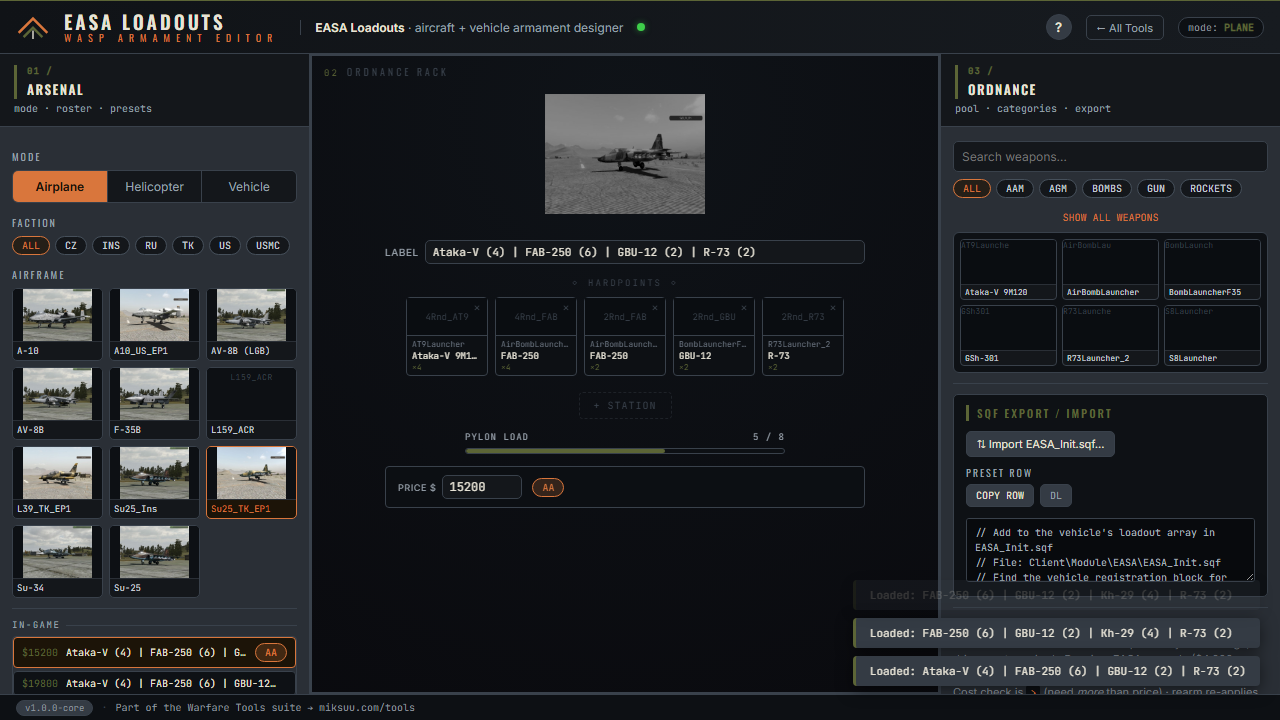
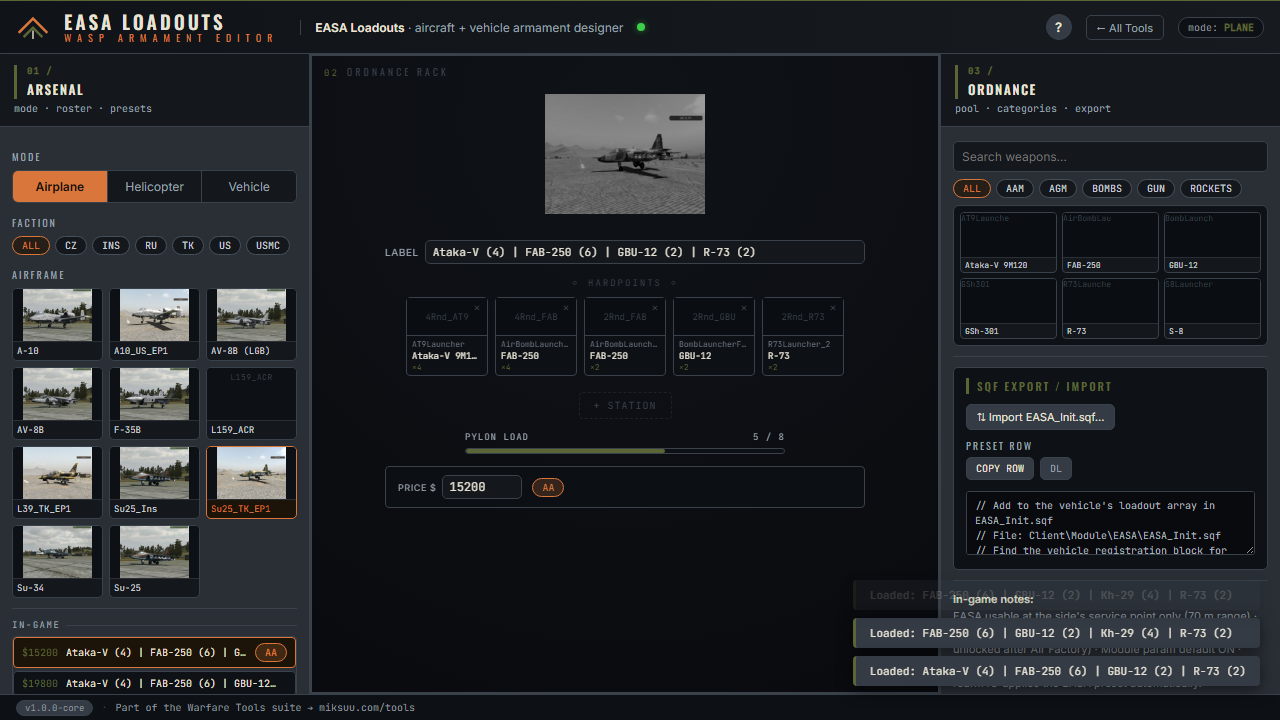
data: refresh names/prices/vehicles from the EASA loadout manager
Sync the committed data with the mission loadout manager
(Client/Module/EASA/EASA_Init.sqf + GUI_Menu_EASA.sqf):

- easa-seed.json regenerated: adds Ka137_MG_PMC (22 vehicles, 493
  presets, prices current) and Su25_Ins now ships an empty EASA
  default, matching the mission file.
- weapons.json: raw classnames replaced with the names the loadout
  manager labels use (FAB-250, GBU-12, MK-82, Kh-29, R-73, S-8,
  Hydra, AIM-9L, TOW-2, GSh-23L, CRV7 FAT/HEPD, Spike); cannons and
  gun pods recategorised gun, guided AT missiles agm, so every
  loadout-manager weapon is visible under the right chip. Adds
  SpikeLauncher_ACR, referenced by Wildcat presets but missing.
- magazines.json: adds 2Rnd_Spike_ACR and 100Rnd_762x54_PKT used by
  the new presets.
- tools: point the default EASA_Init.sqf path at this machine and
  update stale expectations (21->22 vehicles, $0 preset allowed,
  empty default allowed).

49 unit + 22 Playwright green.

Changed region(s): [[0.7188, 0.275, 1.0, 0.8556], [0.75, 0.9472, 0.9688, 0.9778], [0.75, 0.8861, 0.9688, 0.9167]]

diff --git a/tools/test_gen_easa_seed.py b/tools/test_gen_easa_seed.py
@@ -27,6 +27,7 @@ from gen_easa_seed import (
     parse_easa_sqf,
     _parse_sqf_array,
     _tokenise,
+    DEFAULT_SQF,
     SOURCE_FILE_REL,
 )
 
@@ -34,11 +35,7 @@ from gen_easa_seed import (
 # Shared fixtures
 # ---------------------------------------------------------------------------
 
-SQF_PATH = (
-    Path(r"C:\Users\Steff\a2waspwarfare\Missions")
-    / r"[55-2hc]warfarev2_073v48co.chernarus"
-    / r"Client\Module\EASA\EASA_Init.sqf"
-)
+SQF_PATH = DEFAULT_SQF
 
 
 @pytest.fixture(scope="module")
@@ -59,8 +56,8 @@ def vehicles(seed) -> list[dict]:
 
 
 def test_vehicle_count(vehicles):
-    assert len(vehicles) == 21, (
-        f"Expected 21 vehicles, got {len(vehicles)}: "
+    assert len(vehicles) == 22, (
+        f"Expected 22 vehicles, got {len(vehicles)}: "
         f"{[v['class'] for v in vehicles]}"
     )
 
@@ -222,11 +219,12 @@ def test_every_preset_has_at_least_one_mag(vehicles):
             )
 
 
-def test_every_preset_price_is_positive_int(vehicles):
+def test_every_preset_price_is_nonnegative_int(vehicles):
+    # Ka137_MG_PMC's Recon preset is free — the loadout manager allows $0 rows.
     for v in vehicles:
         for i, p in enumerate(v["presets"]):
-            assert isinstance(p["price"], int) and p["price"] > 0, (
-                f"{v['class']} preset {i}: price {p['price']!r} is not a positive int"
+            assert isinstance(p["price"], int) and p["price"] >= 0, (
+                f"{v['class']} preset {i}: price {p['price']!r} is not a non-negative int"
             )
 
 
@@ -264,11 +262,10 @@ def test_defaults_have_weapons_and_mags(vehicles):
         assert isinstance(v["default"]["mags"], list), (
             f"{v['class']} default mags not a list"
         )
-        assert len(v["default"]["weapons"]) >= 1, (
-            f"{v['class']} default has no weapons"
-        )
-        assert len(v["default"]["mags"]) >= 1, (
-            f"{v['class']} default has no mags"
+        # Su25_Ins ships with an empty EASA default (factory weapons untouched),
+        # so empty lists are valid; both lists must agree on emptiness though.
+        assert (len(v["default"]["weapons"]) >= 1) == (len(v["default"]["mags"]) >= 1), (
+            f"{v['class']} default has weapons/mags mismatch"
         )
 
 

diff --git a/tools/test_playwright.py b/tools/test_playwright.py
@@ -226,14 +226,14 @@ with sync_playwright() as p:
     # ── Build-2 tests ─────────────────────────────────────────────────────────
 
     # Read the real EASA_Init.sqf for round-trip tests
-    EASA_SQF_PATH = r"C:\Users\Steff\a2waspwarfare\Missions\[55-2hc]warfarev2_073v48co.chernarus\Client\Module\EASA\EASA_Init.sqf"
+    EASA_SQF_PATH = r"C:\Users\Miksuu\Documents\projects\a2waspwarfare\Missions\[55-2hc]warfarev2_073v48co.chernarus\Client\Module\EASA\EASA_Init.sqf"
     try:
         with open(EASA_SQF_PATH, encoding="utf-8") as f:
             easa_sqf_text = f.read()
     except FileNotFoundError:
         easa_sqf_text = None
 
-    # ── Test 7: Full-file import → parseEasaInit → 21 vehicles ──────────────
+    # ── Test 7: Full-file import → parseEasaInit → 22 vehicles ──────────────
     if easa_sqf_text:
         page.click("#modeBtn-plane")
         page.wait_for_timeout(300)
@@ -246,10 +246,10 @@ with sync_playwright() as p:
         import_count = page.evaluate("""() => {
             return window.DATA.seed.vehicles.length;
         }""")
-        if import_count == 21:
-            ok(f"Full-file import: 21 vehicles parsed")
+        if import_count == 22:
+            ok(f"Full-file import: 22 vehicles parsed")
         else:
-            fail(f"Full-file import: vehicle count", f"expected 21, got {import_count}")
+            fail(f"Full-file import: vehicle count", f"expected 22, got {import_count}")
 
         # ── Test 8: Export full → byte-identical to source ───────────────────
         exported = page.evaluate("""() => {

diff --git a/tools/gen_easa_seed.py b/tools/gen_easa_seed.py
@@ -25,7 +25,7 @@ from typing import Any
 
 REPO_ROOT = Path(__file__).resolve().parent.parent
 DEFAULT_SQF = (
-    Path(r"C:\Users\Steff\a2waspwarfare\Missions")
+    Path(r"C:\Users\Miksuu\Documents\projects\a2waspwarfare\Missions")
     / r"[55-2hc]warfarev2_073v48co.chernarus"
     / r"Client\Module\EASA\EASA_Init.sqf"
 )